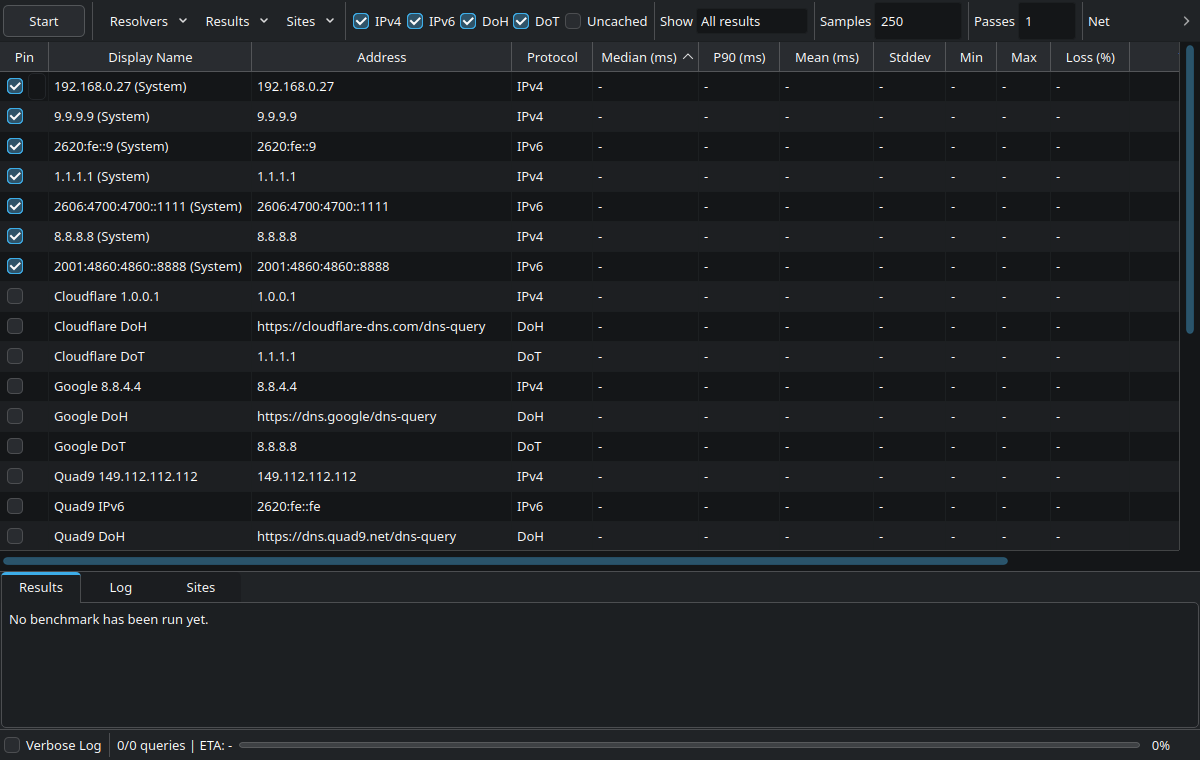
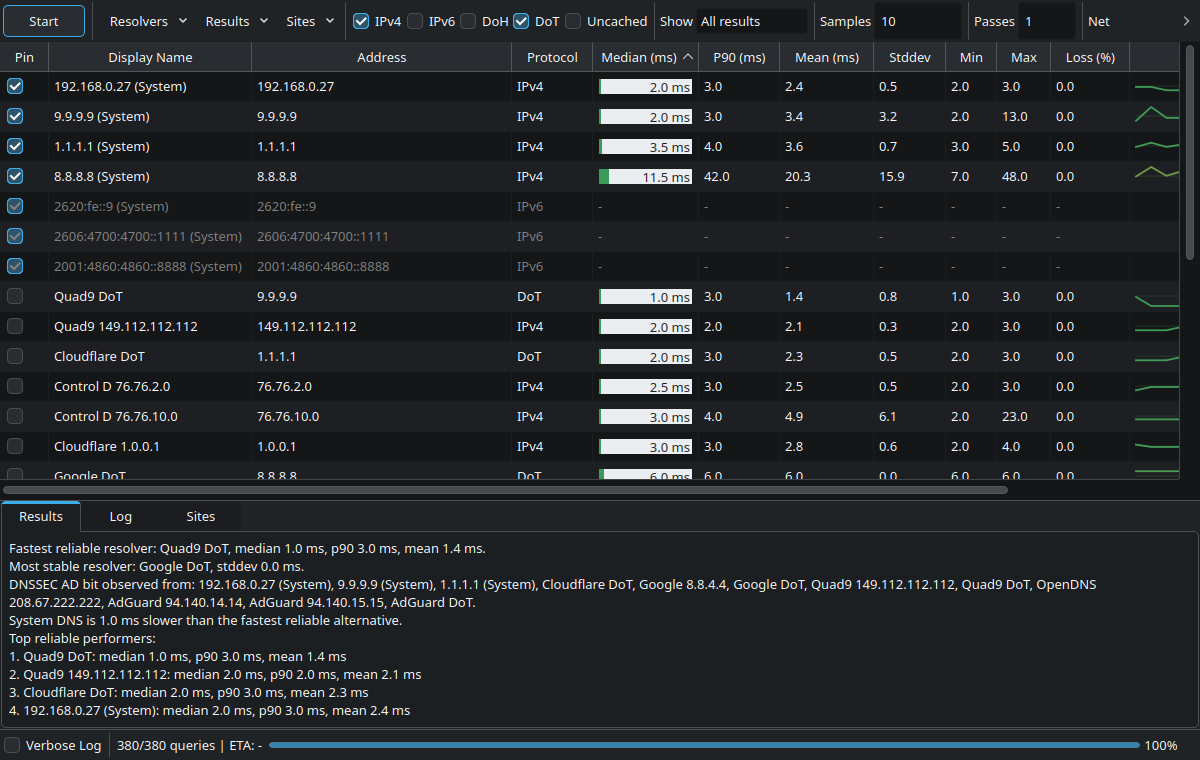
docs: show populated benchmark results

diff --git a/README.md b/README.md
@@ -2,7 +2,7 @@
 
 Qt6 desktop tool for benchmarking DNS resolvers across UDP IPv4/IPv6, DNS-over-HTTPS, and DNS-over-TLS.
 
-![DNS Benchmark desktop interface with resolver protocol filters, latency columns, and benchmark controls](docs/dnsbench.png)
+![DNS Benchmark desktop interface showing measured resolver latency, sparklines, and the benchmark result summary](docs/dnsbench.png)
 
 ## Features
 
